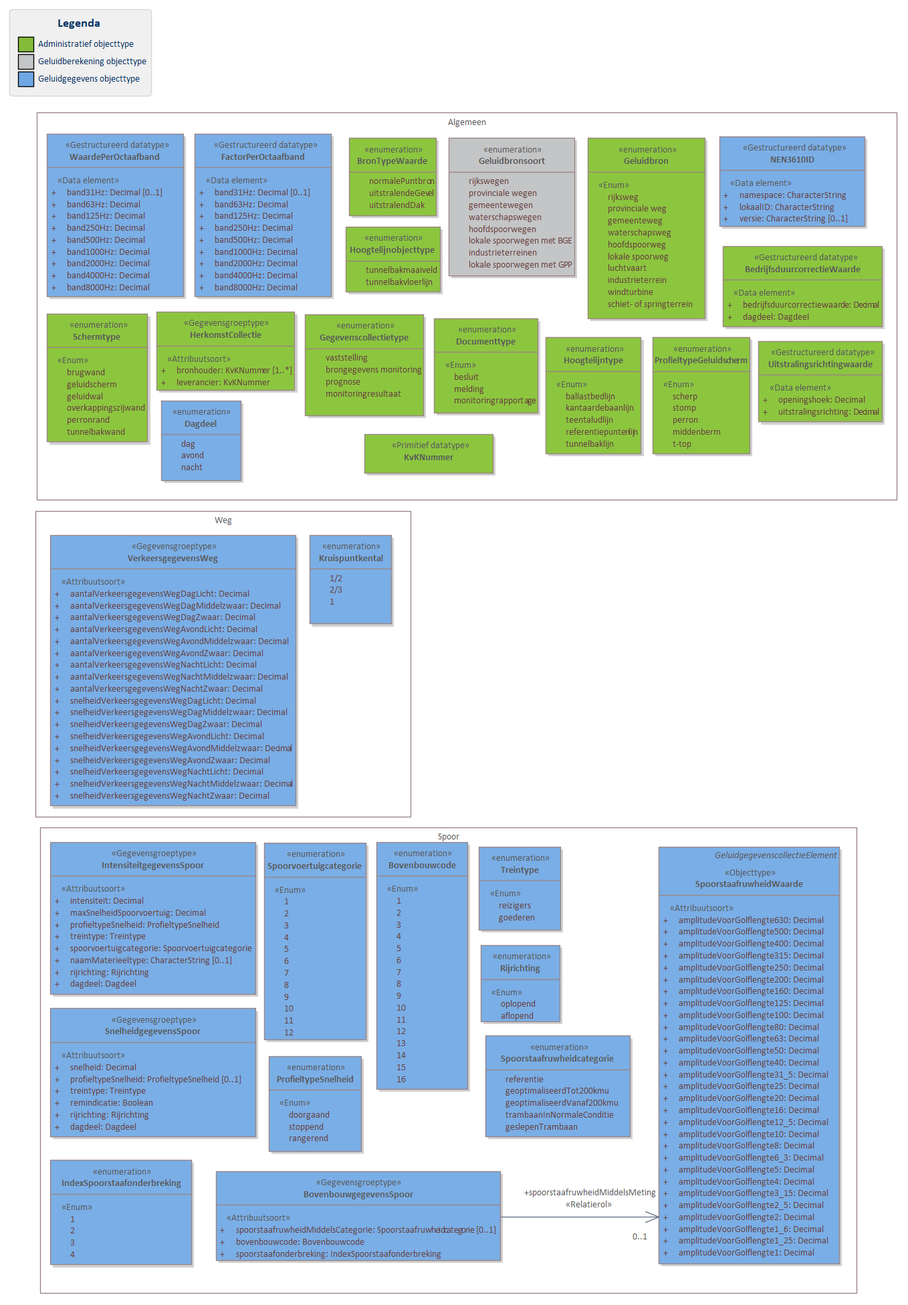
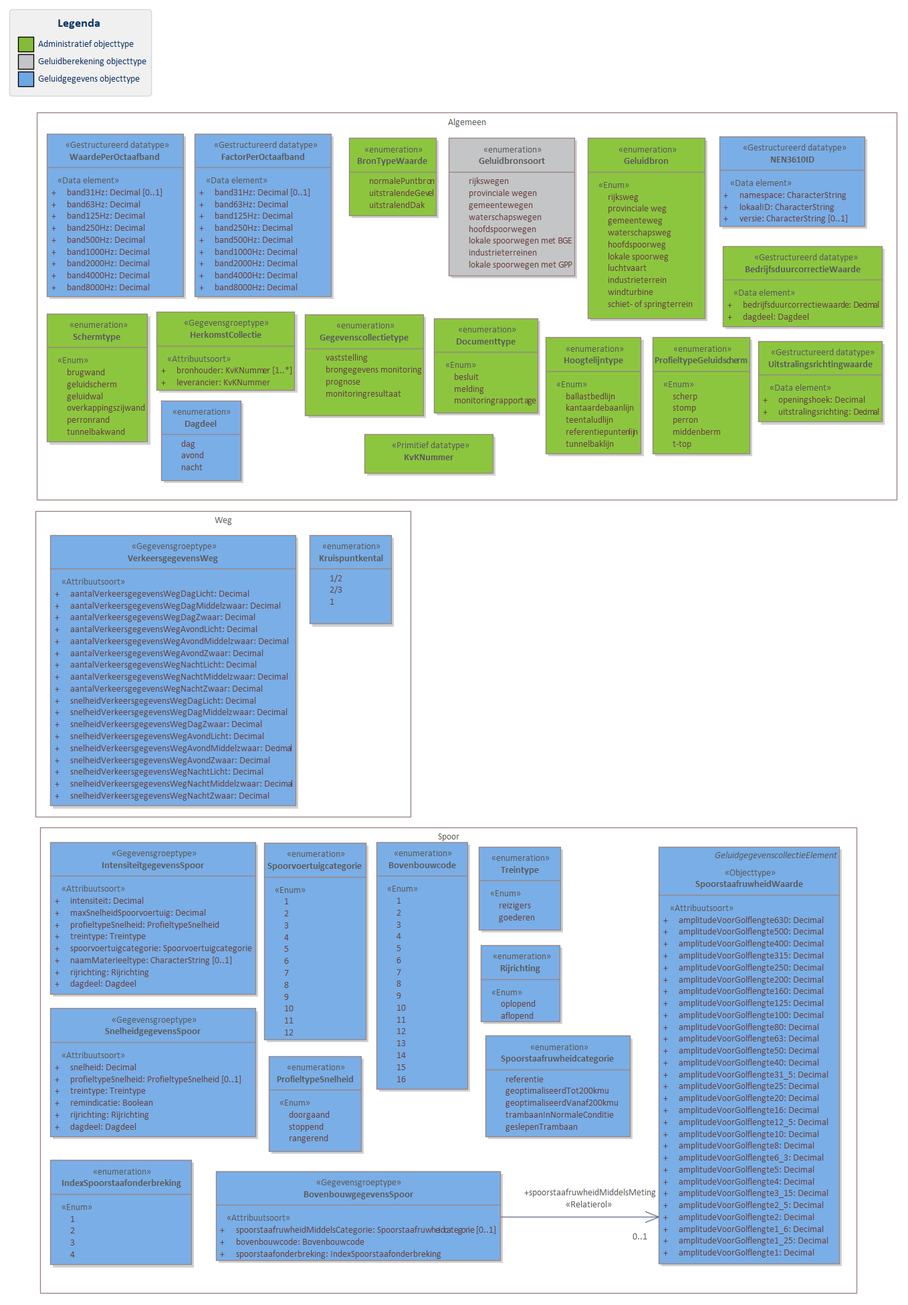
MIMLM-InformatiemodelGeluid-2.0-0-20210521-20220617-000004

Changed region(s): [[0.3711, 0.1538, 0.4948, 0.246]]

diff --git a/data/IMG-cat.respec.html b/data/IMG-cat.respec.html
@@ -1,7 +1,7 @@
 
 <!DOCTYPE HTML><section id="cat" class="normative">
    <h2>Gegevensdefinitie</h2>
-   <!--MIMLM-InformatiemodelGeluid-2.0-0-20210521-20220614-155836 imvertor 1.66.0-->
+   <!--MIMLM-InformatiemodelGeluid-2.0-0-20210521-20220617-000004 imvertor 1.66.0-->
    <section id="EAID_66AE8FA2_74FC_4d4d_B2B2_249C8D6A651F">
       <h3>   Basismodel - overzicht</h3>
       <div class="imageinfo overview"><img src="data/Images/EAID_66AE8FA2_74FC_4d4d_B2B2_249C8D6A651F.png" usemap="#imagemap-EAID_66AE8FA2_74FC_4d4d_B2B2_249C8D6A651F" alt="Diagram &#xA;                        Het Basismodel vormt de samenhang tussen alle domeinen van het IMGeluid. Alle objecttypen en relaties uit het IMGeluid komen samen in een Geluidgegevenscollectie.&#xA;Binnen het IMGeluid worden geluidbrongegevens die gebruikt worden voor GPP en BGE berekeningen, gemodelleerd als een Geluidemissie of Geluidoverdrachtobject. De resultaten van GPP of BGE berekeningen worden opgeslagen in een Geluidgegevenscollectie. De onderliggende juridische vastleggingen, vaststellingen, of monitoringsverslagen van deze omgevings- of monitoringswaarden, worden ook opgeslagen in dezelfde Geluidgegevenscollectie.&#xA;Per geluidbron per toepassing kan er een Geluidgegevenscollectie bestaan. Deze kan geassocieerd worden met maximaal 1 Geluidaandachtsgebied. Wanneer geluidgegevens met betrekking tot cumulatieberekeningen worden aangeleverd, bevat een Geluidgegevenscollectie geen Geluidaandachtsgebied.&#xA;Klik met de rechtermuisknop op het diagram om de afbeelding op volledige grootte in een nieuw tabblad te openen.&#xA;                     "><map name="imagemap-EAID_66AE8FA2_74FC_4d4d_B2B2_249C8D6A651F"><area shape="rect" alt="GeluidgegevenscollectieElement" coords="210,103,447,206" href="#graph_EAID_924BD078_D715_461a_B7E9_D7176A7406E0"><area shape="rect" alt="Monitoringresultaat" coords="510,604,758,718" href="#graph_EAID_BA00B77B_D408_4590_8185_CE59E5838F1E"><area shape="rect" alt="Basisgeluidemissieobject" coords="180,741,430,860" href="#graph_EAID_9AD15457_4880_42e5_8C72_4E5EFAC91B15"><area shape="rect" alt="Geluidproductieplafondobject" coords="1055,454,1341,718" href="#graph_EAID_237408F8_8CE9_4828_B8FB_1A5B8C917622"><area shape="rect" alt="Geluidberekeningobject" coords="577,892,891,1092" href="#graph_EAID_97ED59FE_9FCA_49a6_8F07_214E48000B76"><area shape="rect" alt="Documentverwijzing" coords="605,336,862,511" href="#graph_EAID_7E137496_1028_4af5_9367_569358A2167B"><area shape="rect" alt="Geluidaandachtsgebied" coords="1115,67,1361,206" href="#graph_EAID_B06128AC_518C_4e26_88E5_14ED5A050A19"><area shape="rect" alt="Geluidgegevenscollectie" coords="615,14,884,242" href="#graph_EAID_313C5AF9_49B8_4860_9E65_DE7C70084864"><area shape="rect" alt="Geluidemissieobject" coords="14,511,261,655" href="#graph_EAID_361C96BA_A638_494e_80BA_590ED481A81B"><area shape="rect" alt="Geluidoverdrachtobject" coords="143,336,394,465" href="#graph_EAID_2FEA326B_B7E7_48a4_B50F_00CCB2694677"></map><p><b>Basismodel - overzicht</b>
@@ -89,7 +89,7 @@
    </section>
    <section id="EAID_33DF05AD_62E8_41d4_8CC0_8980CB80739F">
       <h3>   GPP Spoor - overzicht</h3>
-      <div class="imageinfo overview"><img src="data/Images/EAID_33DF05AD_62E8_41d4_8CC0_8980CB80739F.png" usemap="#imagemap-EAID_33DF05AD_62E8_41d4_8CC0_8980CB80739F" alt="Diagram &#xA;                        In domeinmodel GPP Spoor staan objecttypen en relaties die relevant zijn voor geluidbronbeheersing van spoorwegen waarvoor de geluidproductieplafond regeling geldt; en die nodig zijn voor akoestisch onderzoek binnen het geluidaandachtsgebied van spoorwegen.&#xA;Geluidbronnen binnen GPP Spoor worden opgeslagen als lijnbron conform het object SpoordeelGPP, behalve voor geluidbronnen binnen spoorwegemplacementen. Deze geluidbronnen worden opgeslagen als GeluidbronIndustrie.&#xA;Voor ieder Geluidproductieplafondobject langs een Hoofdspoorweg, valt te herleiden op welke geluidberekening de geluidproductieplafondwaarde gebaseerd is. Deze informatie wordt bijgehouden conform het Geluidberekeningobject.&#xA;Ook valt er te herleiden welke geluidbrongegevens gebruikt zijn bij een geluidberekening. Deze geluidbrongegevens zijn samen met het Geluidberekeningsobject terug te vinden in een  Geluidgegevenscollectie in de vorm van gespecialiseerde geluidemissie- en geluidoverdrachtsobjecten.&#xA;&#xA;Klik met de rechtermuisknop op het diagram om de afbeelding op volledige grootte in een nieuw tabblad te openen&#xA;&#xA;                     "><map name="imagemap-EAID_33DF05AD_62E8_41d4_8CC0_8980CB80739F"><area shape="rect" alt="SpoorstaafruwheidWaarde" coords="14,631,283,1233" href="#graph_EAID_E5D9E12A_27B9_417c_ABEB_2149C046EBE0"><area shape="rect" alt="GeluidgegevenscollectieElement" coords="1144,90,1331,200" href="#graph_EAID_924BD078_D715_461a_B7E9_D7176A7406E0"><area shape="rect" alt="Geluidtoeslag" coords="1897,963,2193,1085" href="#graph_EAID_FB0866C8_1438_445a_BB63_B798A00E1626"><area shape="rect" alt="Geluidgegevenscollectie" coords="1555,8,1812,236" href="#graph_EAID_313C5AF9_49B8_4860_9E65_DE7C70084864"><area shape="rect" alt="Monitoringresultaat" coords="1386,320,1680,439" href="#graph_EAID_BA00B77B_D408_4590_8185_CE59E5838F1E"><area shape="rect" alt="GeluidbronIndustrie" coords="614,631,985,877" href="#graph_EAID_7B6D3D2D_0C70_435a_AAFC_FABC9CD61353"><area shape="rect" alt="Kunstwerk" coords="1322,697,1502,809" href="#graph_EAID_E7C0AB60_EC07_4e4f_8F38_E279188D028A"><area shape="rect" alt="Overkapping" coords="1062,962,1209,1024" href="#graph_EAID_68402E1D_9370_4bd4_87E6_A21FD883E5B5"><area shape="rect" alt="Tunnelbak" coords="1227,962,1473,1069" href="#graph_EAID_5A041C70_3BE7_4273_87C7_341981B09801"><area shape="rect" alt="Tunnel" coords="1491,963,1609,1022" href="#graph_EAID_52FB0AD2_D680_41f5_A4E8_979EF928F841"><area shape="rect" alt="Brug" coords="1626,963,1872,1114" href="#graph_EAID_F36131A1_FE84_4230_B41A_3E55575D3C80"><area shape="rect" alt="Geluidemissieobject" coords="555,336,793,477" href="#graph_EAID_361C96BA_A638_494e_80BA_590ED481A81B"><area shape="rect" alt="Geluidoverdrachtobject" coords="1084,320,1322,477" href="#graph_EAID_2FEA326B_B7E7_48a4_B50F_00CCB2694677"><area shape="rect" alt="Geluidberekeningobject" coords="1919,619,2269,830" href="#graph_EAID_97ED59FE_9FCA_49a6_8F07_214E48000B76"><area shape="rect" alt="Documentverwijzing" coords="1883,320,2154,517" href="#graph_EAID_7E137496_1028_4af5_9367_569358A2167B"><area shape="rect" alt="Geluidaandachtsgebied" coords="2091,48,2403,198" href="#graph_EAID_B06128AC_518C_4e26_88E5_14ED5A050A19"><area shape="rect" alt="Geluidproductieplafondobject" coords="2293,318,2655,573" href="#graph_EAID_237408F8_8CE9_4828_B8FB_1A5B8C917622"><area shape="rect" alt="SpoordeelGPP" coords="299,631,592,865" href="#graph_EAID_711C94BB_E0F7_40e5_A41A_C53DB13272C3"><area shape="rect" alt="Geluidschermdeel" coords="1013,631,1301,853" href="#graph_EAID_BC342A75_1053_4086_9B42_321F22E3FA82"><area shape="rect" alt="Hoogtelijn" coords="1544,693,1793,815" href="#graph_EAID_CE3003A0_5F16_4630_B2A6_519B33439135"></map><p><b>GPP Spoor - overzicht</b>
+      <div class="imageinfo overview"><img src="data/Images/EAID_33DF05AD_62E8_41d4_8CC0_8980CB80739F.png" usemap="#imagemap-EAID_33DF05AD_62E8_41d4_8CC0_8980CB80739F" alt="Diagram &#xA;                        In domeinmodel GPP Spoor staan objecttypen en relaties die relevant zijn voor geluidbronbeheersing van spoorwegen waarvoor de geluidproductieplafond regeling geldt; en die nodig zijn voor akoestisch onderzoek binnen het geluidaandachtsgebied van spoorwegen.&#xA;Geluidbronnen binnen GPP Spoor worden opgeslagen als lijnbron conform het object SpoordeelGPP, behalve voor geluidbronnen binnen spoorwegemplacementen. Deze geluidbronnen worden opgeslagen als GeluidbronIndustrie.&#xA;Voor ieder Geluidproductieplafondobject langs een Hoofdspoorweg, valt te herleiden op welke geluidberekening de geluidproductieplafondwaarde gebaseerd is. Deze informatie wordt bijgehouden conform het Geluidberekeningobject.&#xA;Ook valt er te herleiden welke geluidbrongegevens gebruikt zijn bij een geluidberekening. Deze geluidbrongegevens zijn samen met het Geluidberekeningsobject terug te vinden in een  Geluidgegevenscollectie in de vorm van gespecialiseerde geluidemissie- en geluidoverdrachtsobjecten.&#xA;&#xA;Klik met de rechtermuisknop op het diagram om de afbeelding op volledige grootte in een nieuw tabblad te openen&#xA;&#xA;                     "><map name="imagemap-EAID_33DF05AD_62E8_41d4_8CC0_8980CB80739F"><area shape="rect" alt="SpoorstaafruwheidWaarde" coords="19,631,288,1233" href="#graph_EAID_E5D9E12A_27B9_417c_ABEB_2149C046EBE0"><area shape="rect" alt="GeluidgegevenscollectieElement" coords="1149,90,1337,200" href="#graph_EAID_924BD078_D715_461a_B7E9_D7176A7406E0"><area shape="rect" alt="Geluidtoeslag" coords="1902,963,2199,1085" href="#graph_EAID_FB0866C8_1438_445a_BB63_B798A00E1626"><area shape="rect" alt="Geluidgegevenscollectie" coords="1561,8,1818,236" href="#graph_EAID_313C5AF9_49B8_4860_9E65_DE7C70084864"><area shape="rect" alt="Monitoringresultaat" coords="1391,320,1685,439" href="#graph_EAID_BA00B77B_D408_4590_8185_CE59E5838F1E"><area shape="rect" alt="GeluidbronIndustrie" coords="619,631,991,877" href="#graph_EAID_7B6D3D2D_0C70_435a_AAFC_FABC9CD61353"><area shape="rect" alt="Kunstwerk" coords="1327,697,1507,809" href="#graph_EAID_E7C0AB60_EC07_4e4f_8F38_E279188D028A"><area shape="rect" alt="Overkapping" coords="1067,962,1215,1024" href="#graph_EAID_68402E1D_9370_4bd4_87E6_A21FD883E5B5"><area shape="rect" alt="Tunnelbak" coords="1233,962,1479,1069" href="#graph_EAID_5A041C70_3BE7_4273_87C7_341981B09801"><area shape="rect" alt="Tunnel" coords="1497,963,1614,1022" href="#graph_EAID_52FB0AD2_D680_41f5_A4E8_979EF928F841"><area shape="rect" alt="Brug" coords="1632,963,1878,1114" href="#graph_EAID_F36131A1_FE84_4230_B41A_3E55575D3C80"><area shape="rect" alt="Geluidemissieobject" coords="560,336,798,477" href="#graph_EAID_361C96BA_A638_494e_80BA_590ED481A81B"><area shape="rect" alt="Geluidoverdrachtobject" coords="1089,320,1327,477" href="#graph_EAID_2FEA326B_B7E7_48a4_B50F_00CCB2694677"><area shape="rect" alt="Geluidberekeningobject" coords="1924,619,2274,830" href="#graph_EAID_97ED59FE_9FCA_49a6_8F07_214E48000B76"><area shape="rect" alt="Documentverwijzing" coords="1889,320,2159,517" href="#graph_EAID_7E137496_1028_4af5_9367_569358A2167B"><area shape="rect" alt="Geluidaandachtsgebied" coords="2096,48,2408,198" href="#graph_EAID_B06128AC_518C_4e26_88E5_14ED5A050A19"><area shape="rect" alt="Geluidproductieplafondobject" coords="2299,318,2661,573" href="#graph_EAID_237408F8_8CE9_4828_B8FB_1A5B8C917622"><area shape="rect" alt="SpoordeelGPP" coords="305,631,597,865" href="#graph_EAID_711C94BB_E0F7_40e5_A41A_C53DB13272C3"><area shape="rect" alt="Geluidschermdeel" coords="1017,631,1305,853" href="#graph_EAID_BC342A75_1053_4086_9B42_321F22E3FA82"><area shape="rect" alt="Hoogtelijn" coords="1550,693,1799,815" href="#graph_EAID_CE3003A0_5F16_4630_B2A6_519B33439135"><area shape="rect" alt="BovenbouwgegevensSpoor" coords="16,20,443,160" href="#graph_EAID_B5BBEDFE_C275_4c9f_BFF4_0440A0F7820B"></map><p><b>GPP Spoor - overzicht</b>
             
             <p>In domeinmodel GPP Spoor staan objecttypen en relaties die relevant zijn voor geluidbronbeheersing
                van spoorwegen waarvoor de geluidproductieplafond regeling geldt; en die nodig zijn
@@ -146,7 +146,7 @@
    </section>
    <section id="EAID_6CCCDEA4_4D5E_407f_A06B_3D2E5CD4D5B7">
       <h3>   Algemeen datatypen en waardelijsten - overzicht</h3>
-      <div class="imageinfo overview"><img src="data/Images/EAID_6CCCDEA4_4D5E_407f_A06B_3D2E5CD4D5B7.png" usemap="#imagemap-EAID_6CCCDEA4_4D5E_407f_A06B_3D2E5CD4D5B7" alt="Diagram &#xA;                        &#xA;                     "><map name="imagemap-EAID_6CCCDEA4_4D5E_407f_A06B_3D2E5CD4D5B7"><area shape="rect" alt="SpoorstaafruwheidWaarde" coords="985,1266,1256,1890" href="#graph_EAID_E5D9E12A_27B9_417c_ABEB_2149C046EBE0"><area shape="rect" alt="Schermtype" coords="70,469,221,661" href="#graph_EAID_C9ACE184_6E2B_40c1_ACE0_A7C5EE554EF9"><area shape="rect" alt="Hoogtelijntype" coords="816,504,959,679" href="#graph_EAID_46116480_7260_453f_A7D6_80B6C72C8BDC"><area shape="rect" alt="ProfieltypeGeluidscherm" coords="976,504,1122,679" href="#graph_EAID_F76303B4_A75E_4671_8977_C4719B32F932"><area shape="rect" alt="Hoogtelijnobjecttype" coords="517,339,659,437" href="#graph_EAID_2C63527A_74A7_4248_A10B_74D236BA4163"><area shape="rect" alt="BronTypeWaarde" coords="522,206,653,323" href="#graph_EAID_4858CC05_8BCF_466f_A2F4_B8B01BEF16A6"><area shape="rect" alt="BedrijfsduurcorrectieWaarde" coords="1081,368,1320,489" href="#graph_EAID_EC155AB1_EEFE_4a82_BEF9_003F0872B893"><area shape="rect" alt="Uitstralingsrichtingwaarde" coords="1134,510,1320,631" href="#graph_EAID_C522F5BC_D298_4887_8030_D6271385F840"><area shape="rect" alt="Kruispuntkental" coords="463,800,586,933" href="#graph_EAID_951E9EFA_E876_44d0_B49F_86C07099E21F"><area shape="rect" alt="IndexSpoorstaafonderbreking" coords="75,1734,287,1891" href="#graph_EAID_89531B10_996F_4085_93AC_36BCCB16C95D"><area shape="rect" alt="Spoorstaafruwheidcategorie" coords="726,1548,943,1700" href="#graph_EAID_01C33249_C871_41b9_8872_4135A5E35943"><area shape="rect" alt="NEN3610ID" coords="1076,204,1294,339" href="#graph_EAID_3F873D6C_1774_46ea_A631_862E358016E9"><area shape="rect" alt="Spoorvoertuigcategorie" coords="395,1260,548,1555" href="#graph_EAID_C59D8682_FC4E_4844_9466_C17945725615"><area shape="rect" alt="Bovenbouwcode" coords="563,1259,700,1629" href="#graph_EAID_E26FD10C_DEC5_4394_B498_B9522FAC3DA4"><area shape="rect" alt="Gegevenscollectietype" coords="456,470,634,622" href="#graph_EAID_B6773E1F_22D6_4682_B531_6A2D392A2B3C"><area shape="rect" alt="Documenttype" coords="649,476,805,618" href="#graph_EAID_30A82434_4787_4191_A68D_023591D3D78E"><area shape="rect" alt="Dagdeel" coords="241,599,361,719" href="#graph_EAID_00122B9B_F5D7_4dbc_8F39_D0F426DF8C39"><area shape="rect" alt="BovenbouwgegevensSpoor" coords="323,1751,749,1885" href="#graph_EAID_B5BBEDFE_C275_4c9f_BFF4_0440A0F7820B"><area shape="rect" alt="HerkomstCollectie" coords="234,466,441,584" href="#graph_EAID_0CBE6FF8_C5CF_452f_A268_2364394E4268"><area shape="rect" alt="ProfieltypeSnelheid" coords="402,1579,541,1722" href="#graph_EAID_2890B73C_6675_493b_8DE3_B0E30C61DBD1"><area shape="rect" alt="Treintype" coords="716,1266,839,1391" href="#graph_EAID_11918723_A26B_4cbd_BC37_F6914A4A4A4E"><area shape="rect" alt="Rijrichting" coords="719,1413,838,1528" href="#graph_EAID_91B9181F_C621_4819_83E0_1A31A9EBCF7F"><area shape="rect" alt="IntensiteitgegevensSpoor" coords="75,1259,383,1487" href="#graph_EAID_5FFCEE29_DD71_45db_926C_AB9A7E8677F3"><area shape="rect" alt="SnelheidgegevensSpoor" coords="75,1507,383,1700" href="#graph_EAID_00CB7C0F_9A33_426c_90AE_DAAF97D29F7F"><area shape="rect" alt="VerkeersgegevensWeg" coords="75,800,443,1205" href="#graph_EAID_A5AB50E8_5A98_4426_A89E_F5C9D91CF6F8"><area shape="rect" alt="FactorPerOctaafband" coords="291,200,496,444" href="#graph_EAID_2E128FCF_DE66_4517_86D2_331E9E0C46EE"><area shape="rect" alt="WaardePerOctaafband" coords="70,200,275,444" href="#graph_EAID_7AE14E60_44F9_4af5_A8D1_D005D44A25BE"><area shape="rect" alt="Geluidbron" coords="879,206,1055,477" href="#graph_EAID_6FABE66F_BDF5_4771_AEE2_5B9B0C9199C2"><area shape="rect" alt="Geluidbronsoort" coords="671,206,860,413" href="#graph_EAID_16AB414E_37DD_460d_AEAE_00A62748E617"></map><p><b>Algemeen datatypen en waardelijsten - overzicht</b></p>
+      <div class="imageinfo overview"><img src="data/Images/EAID_6CCCDEA4_4D5E_407f_A06B_3D2E5CD4D5B7.png" usemap="#imagemap-EAID_6CCCDEA4_4D5E_407f_A06B_3D2E5CD4D5B7" alt="Diagram &#xA;                        &#xA;                     "><map name="imagemap-EAID_6CCCDEA4_4D5E_407f_A06B_3D2E5CD4D5B7"><area shape="rect" alt="SpoorstaafruwheidWaarde" coords="985,1266,1256,1890" href="#graph_EAID_E5D9E12A_27B9_417c_ABEB_2149C046EBE0"><area shape="rect" alt="Schermtype" coords="70,469,221,661" href="#graph_EAID_C9ACE184_6E2B_40c1_ACE0_A7C5EE554EF9"><area shape="rect" alt="Hoogtelijntype" coords="816,504,959,679" href="#graph_EAID_46116480_7260_453f_A7D6_80B6C72C8BDC"><area shape="rect" alt="ProfieltypeGeluidscherm" coords="976,504,1122,679" href="#graph_EAID_F76303B4_A75E_4671_8977_C4719B32F932"><area shape="rect" alt="BronTypeWaarde" coords="522,206,653,323" href="#graph_EAID_4858CC05_8BCF_466f_A2F4_B8B01BEF16A6"><area shape="rect" alt="BedrijfsduurcorrectieWaarde" coords="1081,368,1320,489" href="#graph_EAID_EC155AB1_EEFE_4a82_BEF9_003F0872B893"><area shape="rect" alt="Uitstralingsrichtingwaarde" coords="1134,510,1320,631" href="#graph_EAID_C522F5BC_D298_4887_8030_D6271385F840"><area shape="rect" alt="Kruispuntkental" coords="463,800,586,933" href="#graph_EAID_951E9EFA_E876_44d0_B49F_86C07099E21F"><area shape="rect" alt="IndexSpoorstaafonderbreking" coords="75,1734,287,1891" href="#graph_EAID_89531B10_996F_4085_93AC_36BCCB16C95D"><area shape="rect" alt="Spoorstaafruwheidcategorie" coords="726,1548,943,1700" href="#graph_EAID_01C33249_C871_41b9_8872_4135A5E35943"><area shape="rect" alt="NEN3610ID" coords="1076,204,1294,339" href="#graph_EAID_3F873D6C_1774_46ea_A631_862E358016E9"><area shape="rect" alt="Spoorvoertuigcategorie" coords="395,1260,548,1555" href="#graph_EAID_C59D8682_FC4E_4844_9466_C17945725615"><area shape="rect" alt="Bovenbouwcode" coords="563,1259,700,1629" href="#graph_EAID_E26FD10C_DEC5_4394_B498_B9522FAC3DA4"><area shape="rect" alt="Gegevenscollectietype" coords="456,470,634,622" href="#graph_EAID_B6773E1F_22D6_4682_B531_6A2D392A2B3C"><area shape="rect" alt="Documenttype" coords="649,476,805,618" href="#graph_EAID_30A82434_4787_4191_A68D_023591D3D78E"><area shape="rect" alt="Dagdeel" coords="241,599,361,719" href="#graph_EAID_00122B9B_F5D7_4dbc_8F39_D0F426DF8C39"><area shape="rect" alt="BovenbouwgegevensSpoor" coords="323,1751,749,1885" href="#graph_EAID_B5BBEDFE_C275_4c9f_BFF4_0440A0F7820B"><area shape="rect" alt="HerkomstCollectie" coords="234,466,441,584" href="#graph_EAID_0CBE6FF8_C5CF_452f_A268_2364394E4268"><area shape="rect" alt="ProfieltypeSnelheid" coords="402,1579,541,1722" href="#graph_EAID_2890B73C_6675_493b_8DE3_B0E30C61DBD1"><area shape="rect" alt="Treintype" coords="716,1266,839,1391" href="#graph_EAID_11918723_A26B_4cbd_BC37_F6914A4A4A4E"><area shape="rect" alt="Rijrichting" coords="719,1413,838,1528" href="#graph_EAID_91B9181F_C621_4819_83E0_1A31A9EBCF7F"><area shape="rect" alt="IntensiteitgegevensSpoor" coords="75,1259,383,1487" href="#graph_EAID_5FFCEE29_DD71_45db_926C_AB9A7E8677F3"><area shape="rect" alt="SnelheidgegevensSpoor" coords="75,1507,383,1700" href="#graph_EAID_00CB7C0F_9A33_426c_90AE_DAAF97D29F7F"><area shape="rect" alt="VerkeersgegevensWeg" coords="75,800,443,1205" href="#graph_EAID_A5AB50E8_5A98_4426_A89E_F5C9D91CF6F8"><area shape="rect" alt="FactorPerOctaafband" coords="291,200,496,444" href="#graph_EAID_2E128FCF_DE66_4517_86D2_331E9E0C46EE"><area shape="rect" alt="WaardePerOctaafband" coords="70,200,275,444" href="#graph_EAID_7AE14E60_44F9_4af5_A8D1_D005D44A25BE"><area shape="rect" alt="Geluidbron" coords="879,206,1055,477" href="#graph_EAID_6FABE66F_BDF5_4771_AEE2_5B9B0C9199C2"><area shape="rect" alt="Geluidbronsoort" coords="671,206,860,413" href="#graph_EAID_16AB414E_37DD_460d_AEAE_00A62748E617"></map><p><b>Algemeen datatypen en waardelijsten - overzicht</b></p>
       </div>
    </section>
    <section id="">
@@ -341,7 +341,7 @@
                      </td>
                   <td>
                      
-                     <p>eind van de periode waarop deze instantie van het object geldig is in het geluidregister.
+                     <p>Einde van de periode waarop deze instantie van het object geldig is in het geluidregister.
                         Wanneer deze waarde niet is ingevuld is de instantie nog geldig</p>
                      </td>
                   <td>
@@ -1286,7 +1286,7 @@
                      <p>Monitoringgegevens voor geluidproductieplafonds of basisgeluidemissie zoals opgenomen
                         in het meest recente openbare verslag over de monitoring.</p>
                      
-                     <p>Indien geen waarde is ingevuld voor monitoringwaarde an verwijst verslagMonitoring
+                     <p>Indien geen waarde is ingevuld voor monitoringwaarde dan verwijst verslagMonitoring
                         naar een schriftelijke toelichting waarin het bevoegd gezag verklaart dat de monitoringswaarde
                         lager zal zijn dan de basisgeluidemissie + 1,5 dB.</p>
                      </td>
@@ -1495,7 +1495,7 @@
                      <p>Monitoringgegevens voor geluidproductieplafonds of basisgeluidemissie zoals opgenomen
                         in het meest recente openbare verslag over de monitoring.</p>
                      
-                     <p>Indien geen waarde is ingevuld voor monitoringwaarde an verwijst verslagMonitoring
+                     <p>Indien geen waarde is ingevuld voor monitoringwaarde dan verwijst verslagMonitoring
                         naar een schriftelijke toelichting waarin het bevoegd gezag verklaart dat de monitoringswaarde
                         lager zal zijn dan de basisgeluidemissie + 1,5 dB.</p>
                      </td>
@@ -4730,14 +4730,6 @@
                         Een windturbine heeft geen geluidaandachtsgebied.</p>
                      </td>
                </tr>
-               <tr>
-                  <th>Regels</th>
-                  <td>
-                     
-                     <p>Elke combinatie van waardes uit attribuutsoort dagdeel en attribuutsoort jaargemiddeldeGeluidemissiewaarde
-                        moet 1 keer voorkomen binnen een instantie van Windturbine.</p>
-                     </td>
-               </tr>
             </tbody>
          </table>
          
@@ -5222,8 +5214,8 @@
                   <th>Toelichting</th>
                   <td>
                      
-                     <p>Het object Hoogtelijnen is optioneel. Het is niet verplicht om hoogtelijnen in de
-                        berekening van het GPP gebruiken, behalve als deze binnen de grenzen van een industrieterrein
+                     <p>Het object Hoogtelijn is optioneel. Het is niet verplicht om hoogtelijnen in de berekening
+                        van het GPP gebruiken, behalve als deze binnen de grenzen van een industrieterrein
                         ligt.</p>
                      </td>
                </tr>
@@ -6096,13 +6088,6 @@
                         </ol>
                      </td>
                </tr>
-               <tr>
-                  <th>Regels</th>
-                  <td>
-                     
-                     <p>Een Brug bestaat alleen uit geluidschermdelen van het schermtype "brugwand".</p>
-                     </td>
-               </tr>
             </tbody>
          </table>
          
@@ -6242,13 +6227,6 @@
                      <p>Dit gegevens is akoestisch relevant voor de berekening van het GPP, maar indien overkappingszijwanden
                         ontbreken is onbekend wat het effect van de overkapping is. Indien er wel overkappingszijwanden
                         zijn, in hoeverre verschilt de combinatie van objecten dan van een tunnel?</p>
-                     </td>
-               </tr>
-               <tr>
-                  <th>Regels</th>
-                  <td>
-                     
-                     <p>Een Overkapping bestaat alleen uit geluidschermdelen van het schermtype "overkappingszijwand".</p>
                      </td>
                </tr>
             </tbody>
@@ -6391,13 +6369,6 @@
                         
                         <li>De wanden van de tunnelbak worden als <strong>GeluidschermSpoor.schermtype=tunnelbakwand</strong> gemodelleerd en behoren niet de geometrie van dit object.</li>
                         </ul>
-                     </td>
-               </tr>
-               <tr>
-                  <th>Regels</th>
-                  <td>
-                     
-                     <p>Een tunnelbak bestaat alleen uit geluidschermdelen van het schermtype "tunnelbakwand".</p>
                      </td>
                </tr>
             </tbody>
@@ -8920,13 +8891,6 @@
                   </td>
             </tr>
             <tr>
-               <th><a class="anchor" id="graph_EAID_2C63527A_74A7_4248_A10B_74D236BA4163"></a><a class="anchor" id="global_class_IMGeluidAlgemeen_Hoogtelijnobjecttype"></a><a class="link" href="#detail_class_IMGeluidAlgemeen_Hoogtelijnobjecttype">Hoogtelijnobjecttype</a></th>
-               <td>
-                  
-                  <p>Classificatie van het toepassingsgebied van een hoogtelijn.</p>
-                  </td>
-            </tr>
-            <tr>
                <th><a class="anchor" id="graph_EAID_46116480_7260_453f_A7D6_80B6C72C8BDC"></a><a class="anchor" id="global_class_IMGeluidAlgemeen_Hoogtelijntype"></a><a class="link" href="#detail_class_IMGeluidAlgemeen_Hoogtelijntype">Hoogtelijntype</a></th>
                <td>
                   
@@ -9495,8 +9459,14 @@
                         <th>Toelichting</th>
                         <td>
                            
-                           <p>Het DateTime datatype schijft de manier voor waarop het tijdstip van registratie
-                              in het geluidregister wordt opgenomen.</p>
+                           <ul>
+                              
+                              <li>Het DateTime datatype schijft de manier voor waarop het tijdstip van registratie
+                                 in het geluidregister wordt opgenomen.</li>
+                              
+                              <li>Bronhouders hoeven deze waarde niet in te vullen, want deze wordt automatisch gevuld
+                                 bij het aanleveren van de gegevens aan de CVGG .</li>
+                              </ul>
                            </td>
                      </tr>
                      <tr>
@@ -9543,7 +9513,7 @@
                         <th>Definitie</th>
                         <td>
                            
-                           <p>eind van de periode waarop deze instantie van het object geldig is in het geluidregister.
+                           <p>Einde van de periode waarop deze instantie van het object geldig is in het geluidregister.
                               Wanneer deze waarde niet is ingevuld is de instantie nog geldig</p>
                            </td>
                      </tr>
@@ -9555,9 +9525,16 @@
                         <th>Toelichting</th>
                         <td>
                            
-                           <p>Het DateTime datatype schijft de manier voor waarop het eind van registratie in het
-                              geluidregister wordt opgenomen. Deze attribuutwaarde hoeft niet te worden ingevuld
-                              wanneer einddatum niet bekend is.</p>
+                           <ul>
+                              
+                              <li>Het DateTime datatype schijft de manier voor waarop het eind van registratie in het
+                                 geluidregister wordt opgenomen. </li>
+                              
+                              <li>Deze attribuutwaarde hoeft niet te worden ingevuld wanneer einddatum niet bekend is.</li>
+                              
+                              <li>Wanneer een bronhouder aangeeft dat een instantie van een object eindigt, wordt de
+                                 datum daarvan automatisch hier ingevuld door het CVGG.</li>
+                              </ul>
                            </td>
                      </tr>
                      <tr>
@@ -18596,11 +18573,6 @@
                         <td>1</td>
                      </tr>
                      <tr>
-                        <th>Patroon</th>
-                        <td>De verzameling van waarden die gegevens van dit attribuutsoort kunnen hebben, dat
-                           wil zeggen het waardenbereik, uitgedrukt in een specifieke structuur.</td>
-                     </tr>
-                     <tr>
                         <th>Type</th>
                         <td>
                            <a class="link" href="#detail_class_IMGeluidAlgemeen_WaardePerOctaafband">WaardePerOctaafband</a>
@@ -18634,11 +18606,6 @@
                      <tr>
                         <th>Kardinaliteit</th>
                         <td>1</td>
-                     </tr>
-                     <tr>
-                        <th>Patroon</th>
-                        <td>De verzameling van waarden die gegevens van dit attribuutsoort kunnen hebben, dat
-                           wil zeggen het waardenbereik, uitgedrukt in een specifieke structuur.</td>
                      </tr>
                      <tr>
                         <th>Type</th>
@@ -19309,11 +19276,6 @@
                         <td>1</td>
                      </tr>
                      <tr>
-                        <th>Patroon</th>
-                        <td>De verzameling van waarden die gegevens van dit attribuutsoort kunnen hebben, dat
-                           wil zeggen het waardenbereik, uitgedrukt in een specifieke structuur.</td>
-                     </tr>
-                     <tr>
                         <th>Type</th>
                         <td>Boolean</td>
                      </tr>
@@ -19510,11 +19472,6 @@
                               <li>referentiepuntenlijn</li>
                               </ul>
                            </td>
-                     </tr>
-                     <tr>
-                        <th>Patroon</th>
-                        <td>De verzameling van waarden die gegevens van dit attribuutsoort kunnen hebben, dat
-                           wil zeggen het waardenbereik, uitgedrukt in een specifieke structuur.</td>
                      </tr>
                      <tr>
                         <th>Type</th>
@@ -20581,11 +20538,6 @@
                         <td>Overig</td>
                      </tr>
                      <tr>
-                        <th>Patroon</th>
-                        <td>De verzameling van waarden die gegevens van dit attribuutsoort kunnen hebben, dat
-                           wil zeggen het waardenbereik, uitgedrukt in een specifieke structuur.</td>
-                     </tr>
-                     <tr>
                         <th>Type</th>
                         <td>
                            <a class="link" href="#detail_class_IMGeluidAlgemeen_WaardePerOctaafband">WaardePerOctaafband</a>
@@ -21252,11 +21204,6 @@
                         <td>0 .. 1</td>
                      </tr>
                      <tr>
-                        <th>Patroon</th>
-                        <td>De verzameling van waarden die gegevens van dit attribuutsoort kunnen hebben, dat
-                           wil zeggen het waardenbereik, uitgedrukt in een specifieke structuur.</td>
-                     </tr>
-                     <tr>
                         <th>Type</th>
                         <td>
                            <a class="external-link" href="https://geonovum.github.io/MIM-Werkomgeving/#primitive-datatypes">CharacterString</a>
@@ -21298,11 +21245,6 @@
                      <tr>
                         <th>Kardinaliteit</th>
                         <td>0 .. 1</td>
-                     </tr>
-                     <tr>
-                        <th>Patroon</th>
-                        <td>De verzameling van waarden die gegevens van dit attribuutsoort kunnen hebben, dat
-                           wil zeggen het waardenbereik, uitgedrukt in een specifieke structuur.</td>
                      </tr>
                      <tr>
                         <th>Type</th>
@@ -25630,7 +25572,7 @@
 </section>
 <section id="lis" class="normative">
    <h2>Inhoud van waardenlijsten</h2>
-   <!--MIMLM-InformatiemodelGeluid-2.0-0-20210521-20220614-155836 imvertor 1.66.0--><a class="anchor" id="graph_EAID_C9ACE184_6E2B_40c1_ACE0_A7C5EE554EF9"></a><a class="anchor" id="detail_class_IMGeluidAlgemeen_Schermtype"></a><section id="detail_class_IMGeluidAlgemeen_Schermtype">
+   <!--MIMLM-InformatiemodelGeluid-2.0-0-20210521-20220617-000004 imvertor 1.66.0--><a class="anchor" id="graph_EAID_C9ACE184_6E2B_40c1_ACE0_A7C5EE554EF9"></a><a class="anchor" id="detail_class_IMGeluidAlgemeen_Schermtype"></a><section id="detail_class_IMGeluidAlgemeen_Schermtype">
       <h3>Enumeratie details  Schermtype</h3>
       
       <table style="width: 100%;" class="list">
@@ -25665,7 +25607,7 @@
                <th>geluidscherm</th>
                <td>
                   
-                  <p>Ter verbetering van de kwaliteit van het milieu direct langs een spoorweg geplaatst
+                  <p>Ter verbetering van de kwaliteit van het milieu direct langs een geluidbron geplaatst
                      geluidregisterscherm dat gebruikt is in de GPP-berekening.</p>
                   </td>
             </tr>
@@ -25673,7 +25615,7 @@
                <th>geluidwal</th>
                <td>
                   
-                  <p>Ter verbetering van de kwaliteit van het milieu direct langs een spoorweg geplaatste
+                  <p>Ter verbetering van de kwaliteit van het milieu direct langs een geluidbron geplaatste
                      geluidwal dat gebruikt is in de GPP-berekening.</p>
                   </td>
             </tr>
@@ -25699,39 +25641,6 @@
                   
                   <p>Een verticaal oppervlak aan de zijde van een tunnelbak dat als geluidscherm fungeert.</p>
                   </td>
-            </tr>
-         </tbody>
-      </table>
-      </section><a class="anchor" id="graph_EAID_2C63527A_74A7_4248_A10B_74D236BA4163"></a><a class="anchor" id="detail_class_IMGeluidAlgemeen_Hoogtelijnobjecttype"></a><section id="detail_class_IMGeluidAlgemeen_Hoogtelijnobjecttype">
-      <h3>Enumeratie details  Hoogtelijnobjecttype</h3>
-      
-      <table style="width: 100%;" class="list">
-         <colgroup></colgroup>
-         <tbody>
-            <tr>
-               <td>
-                  
-                  <p>Classificatie van het toepassingsgebied van een hoogtelijn.</p>
-                  </td>
-            </tr>
-         </tbody>
-      </table>
-      
-      <table style="width: 100%;" class="list">
-         <colgroup style="width: 40%;"></colgroup>
-         <colgroup style="width: 60%;"></colgroup>
-         <tbody>
-            <tr>
-               <th>Waarde</th>
-               <th>Omschrijving</th>
-            </tr>
-            <tr>
-               <th>tunnelbakmaaiveld</th>
-               <td></td>
-            </tr>
-            <tr>
-               <th>tunnelbakvloerlijn</th>
-               <td></td>
             </tr>
          </tbody>
       </table>
